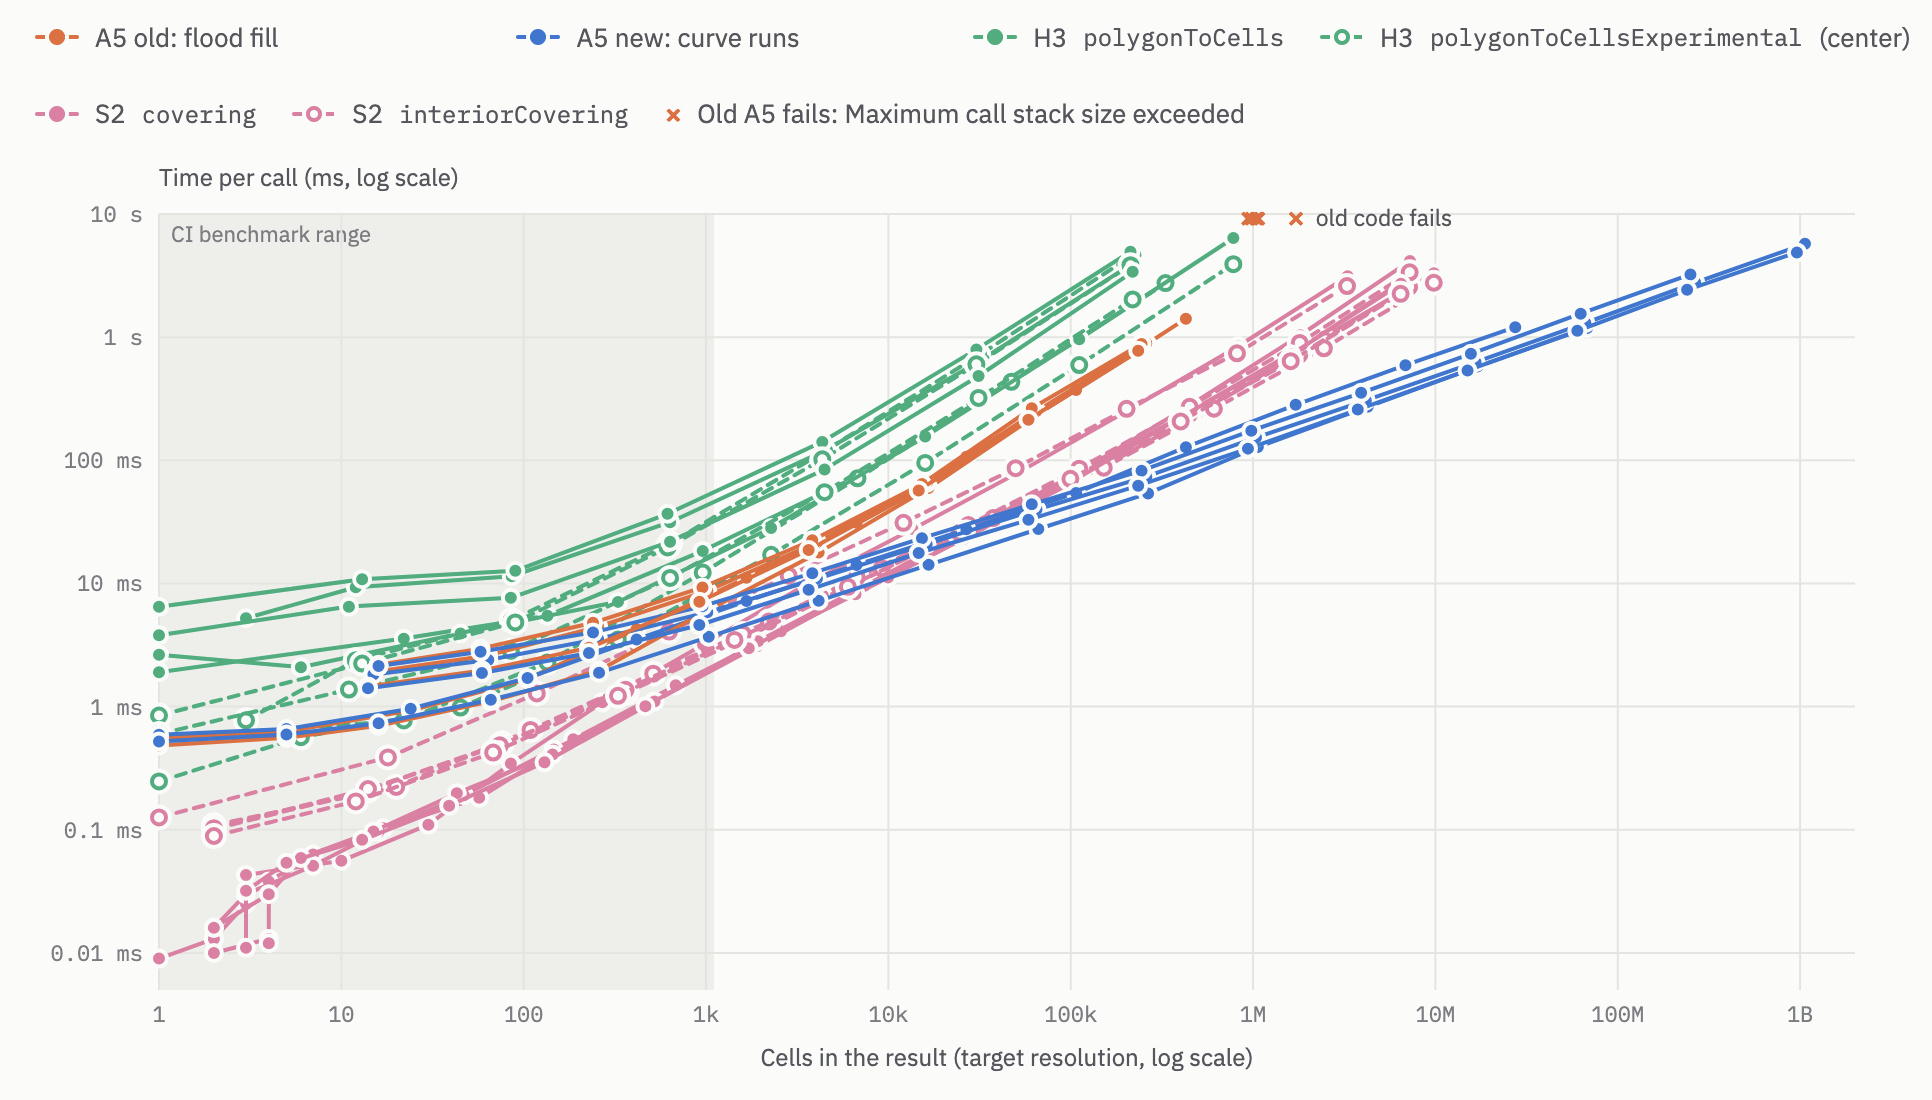
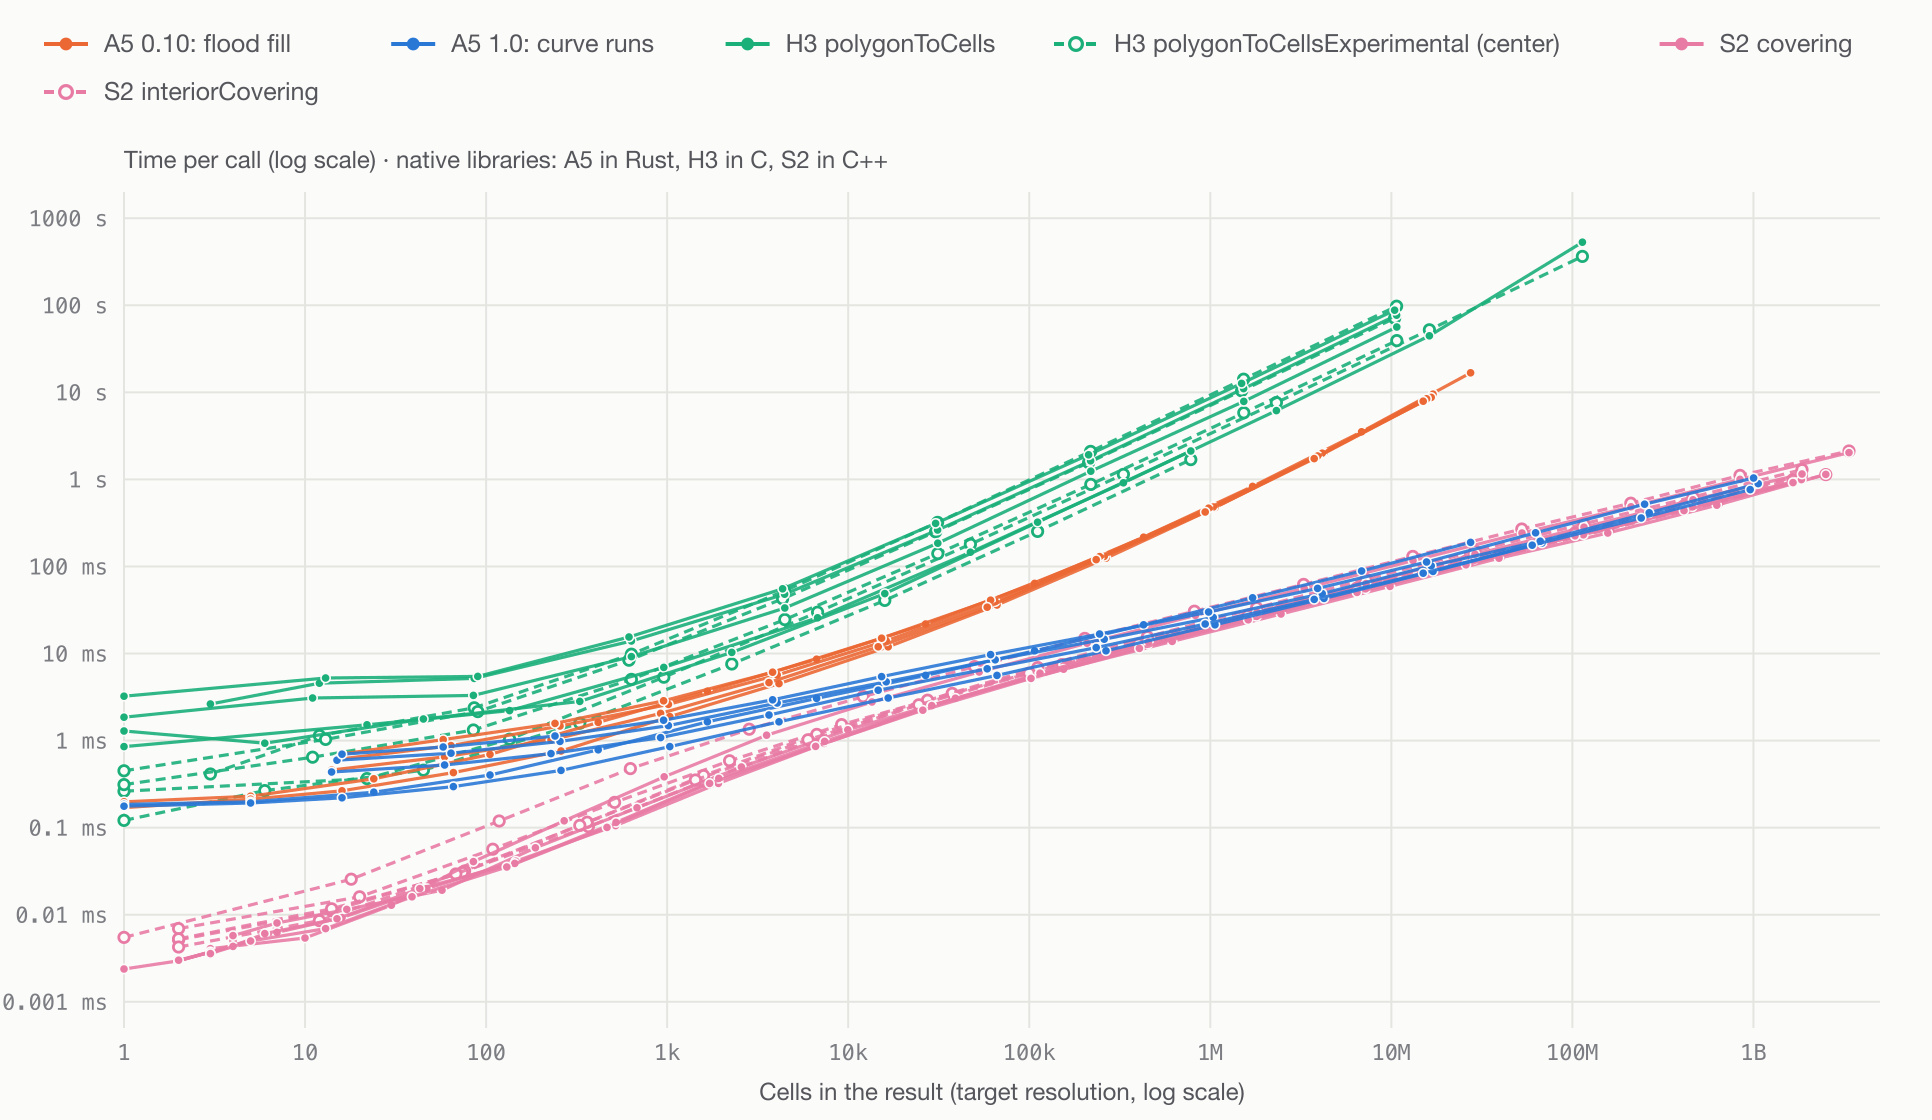
future

diff --git a/website/blog/2026-10-14-a5-v1/index.md b/website/blog/2026-10-14-a5-v1/index.md
@@ -17,11 +17,17 @@ If you're new to A5, in a nutshell it is a grid system that allows the represent
 
 The industry term for this is a Discrete Global Grid System (DGGS), and there are already a number of other systems out there which are powering some of the world's largest companies and data analytics pipelines. 
 
-For a concrete example of an application leveraging A5, take a look at the [FIRMS Explorer](https://portolan-mirrors.github.io/firms-catalog/) which uses A5 to aggregate 631 million fires worldwide since 2000.
+For a concrete example of an application leveraging A5, take a look at the [FIRMS Explorer](https://portolan-mirrors.github.io/firms-catalog/) which uses A5 to aggregate 631 million fire detections worldwide since 2000.
 
 <img src={require('./firms.jpg').default} alt="FIRMS Explorer: fire detections worldwide aggregated to A5 cells" style={{width: "100%", maxWidth: "600px"}}/>
 
-## Powerful data analytics
+## Stable platform for the future
+
+With the `v1.0` we are commiting to keeping the grid layout and the cell IDs frozen going forward. While the system will evolve and grow, for example by adding more utility functions, the fundamentals will stay fixed so applications, database and workflows will be able to rely on an A5 cell representing a specific geographic location into the future.
+
+The community around the project has grown, in particular with the implementations in [DuckDB](https://query.farm/products/extensions/a5/), [R](https://belian-earth.github.io/a5R/dev/index.html) which have beautiful sites which arguably even put the official A5 site to shame! As such, going forward, the documentation on the A5 website will present code snippets and API documentation in these languages, as well as the officially supported TypeScript, Rust and Python libraries.
+
+## What's new
 
 ### Compacted data processing
 
@@ -36,7 +42,7 @@ By using compacted data and these operations, it is possible to run process bill
 
 ### Spatial hierarchy functions
 
-Geometrically, it is impossible to split an A5 pentagon into more pentagons in such a manner that the result exactly overlaps; the same is true of hexagons - only quadrilaterals and triangles can be split exactly. The A5 hierarchy is thus logical, and only approximately spatial.
+Geometrically, it is impossible to split an A5 pentagon into more pentagons in such a manner that the result exactly overlaps; the same is true of hexagons - unlike quadrilaterals and triangles, which can be split exactly. The A5 hierarchy is thus logical, and only approximately spatial.
 
 In order to support resampling and other operations, a new function `cellToSubcells` has been added. While this is slower than the `cellToChildren` API it produces a correct covering (by centroid) of the cell. The inverse, `cellToSupercell` is also available.
 
@@ -46,7 +52,7 @@ In order to support resampling and other operations, a new function `cellToSubce
 
 One of the key strengths of A5 has always been the guarantee that every cell is **exactly** the same area at a given resolution, which means that any analysis run using the system is [free of bias](/docs/recipes/a5-vs-h3) due to unequal cell sizes. New in `v1.0`, all the cells at all resolutions have the same pentagonal topology. This is in contrast to hexagonal DGGS systems which must include 12 pentagonal cells, which complicate the topology and break the pure equal-area guarantee.
 
-### Vibrant ecosystem
+## Vibrant ecosystem
 
 One of the important characteristics of a grid system is its support across a range of tools and software, both in industry and academia. By standardizing on a definition of the grid and cell identifiers, it is easy to move data between systems and applications. For example, the FIRMS Explorer above was built using:
 
@@ -58,7 +64,7 @@ Along with a raft of implementations in popular systems, such as [DuckDB](https:
 
 ## Under the hood
 
-Over the past 18 months, the design of A5 has been refined - both from the point of view of internals, low-level geometry and algorithms as well as the APIs exposed to make the life of developers easier.
+Over the past 18 months, both A5's internals and its APIs have been refined.
 
 ### Teohedral space-filling curve
 
@@ -66,9 +72,13 @@ The key change that the majority of the other improvements flow from is the impl
 
 ![The teohedral curve touring the 12 faces of the dodecahedron](./teohedral-curve.jpg)
 
-The fact that it doesn't self-intersect is crucial to some of the algorithms that can be built on top. For example, when filling a polygon with cells we can immediately deduce which cells are on the interior of the region without having to perform a costly flood fill. The benchmarks below are instructive:
+The fact that it doesn't self-intersect is crucial to some of the algorithms that can be built on top. For example, when filling a polygon with cells we can immediately deduce which cells are on the interior of the region without having to perform a costly flood fill. This works due to the boundary acting as as a set of cutting points along the global space-filling curve - if we know these, then we can trivially fill in the cells inbetween.
+
+The benchmarks below are instructive:
 
 ![polygonToCells time against the number of cells in the result, for old and new A5, H3 and S2](./polygon-perf.jpg)
+
+*How these were measured: each point is one call filling a country outline (UK, France, Brazil, USA and Australia, from the A5 test fixtures) at one resolution, timed with the native libraries: A5 1.0.0-beta.3 and 0.10.1 (Rust crates, rustc 1.87), H3 4.5.0 (the C library, via h3-py's NumPy API) and S2 (the C++ library, via the s2geometry 0.14.0 Python bindings; `S2RegionCoverer` with no cell limit, so it returns a compacted covering at the target level). Times are the fastest of repeated runs, or a single run for calls over 2 seconds, on an Apple M1 Pro. Each library was stopped once a call took longer than a minute (6 seconds for A5), or past a billion cells.*
 
 Prior to v1, A5 couldn't handle polygon fills with over a million cells, with the runtime going through the roof. The same is true of [H3](https://h3geo.org/) today. By contrast, [S2](https://s2geometry.io/) is able to handle up to a billion cells without any issues, as is the new version of A5. It is no coincidence that S2 also uses a space-filling curve ([Hilbert](https://en.wikipedia.org/wiki/Hilbert_curve)) which **doesn't** self-intersect, while H3 index order has no such property.
 
@@ -77,3 +87,11 @@ Similar algorithmic tricks can be used to speed up other operations, like inters
 ### Cell IDs
 
 A necessary consequence of changing the curve is that the cell IDs change. See the [Upgrade Guide](/docs/upgrade-guide) for migration instructions.
+
+## Future
+
+It has been a challenge and a lot of fun to work on A5, it has led to some great conversations with many smart people. A big thank you to all the people who have got involved, by building libraries on top of A5, reporting bugs or just spreading the word.
+
+In general, I find the topic fascinating and I hope you find the system useful in your work and the examples on the site help you understand how a DGGS can be put together. We are currently working on a paper which will explain the design of A5 more rigorously as well as provide comparisons to other DGGS libraries.
+
+If you would like to get involved, join us on our Slack channel and if you build anything with A5, please share!
